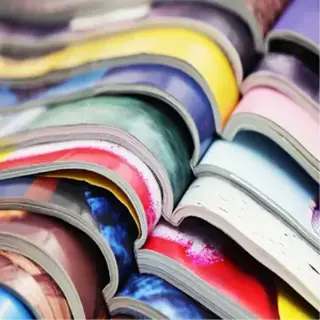
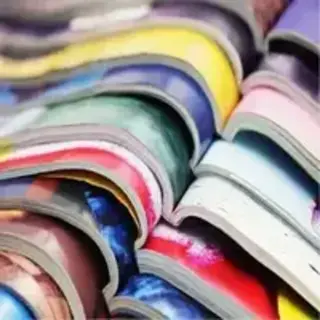
Adaptation img webp à Safari

diff --git a/index.html b/index.html
@@ -155,7 +155,13 @@
 				</div>
 				<div class="row tight-width-whitespace portfolio-row">
 					<figure class="col-sm-6">
-						<a href="#" data-lightbox="img/1.jpg" data-gallery-id="gallery-1" data-caption="Refonte d'un site web pour un journal local" data-frame="snapshot-lb"><img src="img/refonte-site-journal-local.webp" alt="Livres ouverts empilés les uns sur les autres" class="img-responsive portfolio-thumb" /></a>
+						<a href="#" data-lightbox="img/refonte-site-journal-local.webp" data-gallery-id="gallery-1" data-caption="Refonte d'un site web pour un journal local" data-frame="snapshot-lb">
+							<picture>
+								<source srcset="img/refonte-site-journal-local.webp" type="image/webp">
+								<source srcset="img/refonte-site-journal-local.jpg" type="image/jpg">
+								<img src="img/refonte-site-journal-local.webp" alt="Livres ouverts empilés les uns sur les autres" class="img-responsive portfolio-thumb" />
+							</picture>
+						</a>	
 						<figcaption>
 							<h3 class="mg-md text-center">
 								Refonte d'un site web pour un journal local
@@ -166,7 +172,13 @@
 						</figcaption>
 					</figure>
 					<figure class="col-sm-6">
-						<a href="#" data-lightbox="img/2.jpg" data-gallery-id="gallery-1" data-caption="Création d'un site web pour photographes" data-frame="snapshot-lb"><img src="img/creation-site-photographie.webp" class="img-responsive portfolio-thumb" alt="Fille derrière un appareil photo sur pied" /></a>
+						<a href="#" data-lightbox="img/creation-site-photographie.webp" data-gallery-id="gallery-1" data-caption="Création d'un site web pour photographes" data-frame="snapshot-lb">
+							<picture>
+								<source srcset="img/creation-site-photographie.webp" type="image/webp">
+								<source srcset="img/creation-site-photographie.jpg" type="image/jpg">
+								<img src="img/creation-site-photographie.webp" class="img-responsive portfolio-thumb" alt="Fille derrière un appareil photo sur pied" />
+							</picture>
+						</a>
 						<figcaption>
 							<h3 class="mg-md text-center">
 								Création d'un site web pour photographes
@@ -179,7 +191,13 @@
 				</div>
 				<div class="row tight-width-whitespace portfolio-row">
 					<figure class="col-sm-6">
-						<a href="#" data-lightbox="img/3.bmp" data-gallery-id="gallery-1" data-caption="Création d'un site internet pour un voyageur" data-frame="snapshot-lb"><img src="img/creation-site-voyage.webp" class="img-responsive portfolio-thumb" alt="Différents outils de voyageurs posés sur une table vue d'en haut"/></a>
+						<a href="#" data-lightbox="img/creation-site-voyage.webp" data-gallery-id="gallery-1" data-caption="Création d'un site internet pour un voyageur" data-frame="snapshot-lb">
+							<picture>
+								<source srcset="img/creation-site-voyage.webp" type="image/webp">
+								<source srcset="img/creation-site-voyage.jpg" type="image/jpg">
+								<img src="img/creation-site-voyage.webp" class="img-responsive portfolio-thumb" alt="Différents outils de voyageurs posés sur une table vue d'en haut"/>
+							</picture>
+						</a>
 						<figcaption>
 							<h3 class="mg-md text-center">
 								Création d'un site internet pour un voyageur
@@ -190,7 +208,13 @@
 						</figcaption>
 					</figure>
 					<figure class="col-sm-6">
-						<a href="#" data-lightbox="img/4.bmp" data-gallery-id="gallery-1" data-caption="Conception d'un site pour une agence de mariage" data-frame="snapshot-lb"><img src="img/conception-site-agence-mariage.webp" class="img-responsive portfolio-thumb" alt="Mains qui tapent au clavier lors de la création d'un site pour événementiel vue d'en haut"/></a>
+						<a href="#" data-lightbox="img/conception-site-agence-mariage.webp" data-gallery-id="gallery-1" data-caption="Conception d'un site pour une agence de mariage" data-frame="snapshot-lb">
+							<picture>
+								<source srcset="img/conception-site-agence-mariage.webp" type="image/webp">
+								<source srcset="img/conception-site-agence-mariage.jpg" type="image/jpg">
+								<img src="img/conception-site-agence-mariage.webp" class="img-responsive portfolio-thumb" alt="Mains qui tapent au clavier lors de la création d'un site pour événementiel vue d'en haut"/>
+							</picture>
+						</a>
 						<figcaption>
 							<h3 class="mg-md text-center">
 								Conception d'un site pour une agence de mariage

diff --git a/style.css b/style.css
@@ -615,7 +615,7 @@ a[data-lightbox]:hover img {
 }
 
 .snapshot-lb .modal-body {
-    padding-bottom: 45px;
+    padding-bottom: 75px;
 }
 
 .snapshot-lb .lightbox-caption {
@@ -732,12 +732,12 @@ h4 {
 
 .portfolio-thumb {
     margin-bottom: 24px;
+    margin: auto;
 }
 
 .portfolio-row {
     margin-bottom: 44px;
     margin-top: 50px;
-    margin-left: 12px;
 }
 
 .avatar {
@@ -798,11 +798,11 @@ h4 {
 }
 
 .bg-banniere {
-    background-image: url("img/la-chouette-agence-banniere.webp");
+    background-image: url("img/la-chouette-agence-banniere.webp"), url("img/la-chouette-agence-banniere.jpg");
 }
 
 .bg-presentation {
-    background-image: url("img/image-de-presentation.webp");
+    background-image: url("img/image-de-presentation.webp"), url("img/image-de-presentation.jpg");
 }
 
 @media (max-width: 1024px) {
